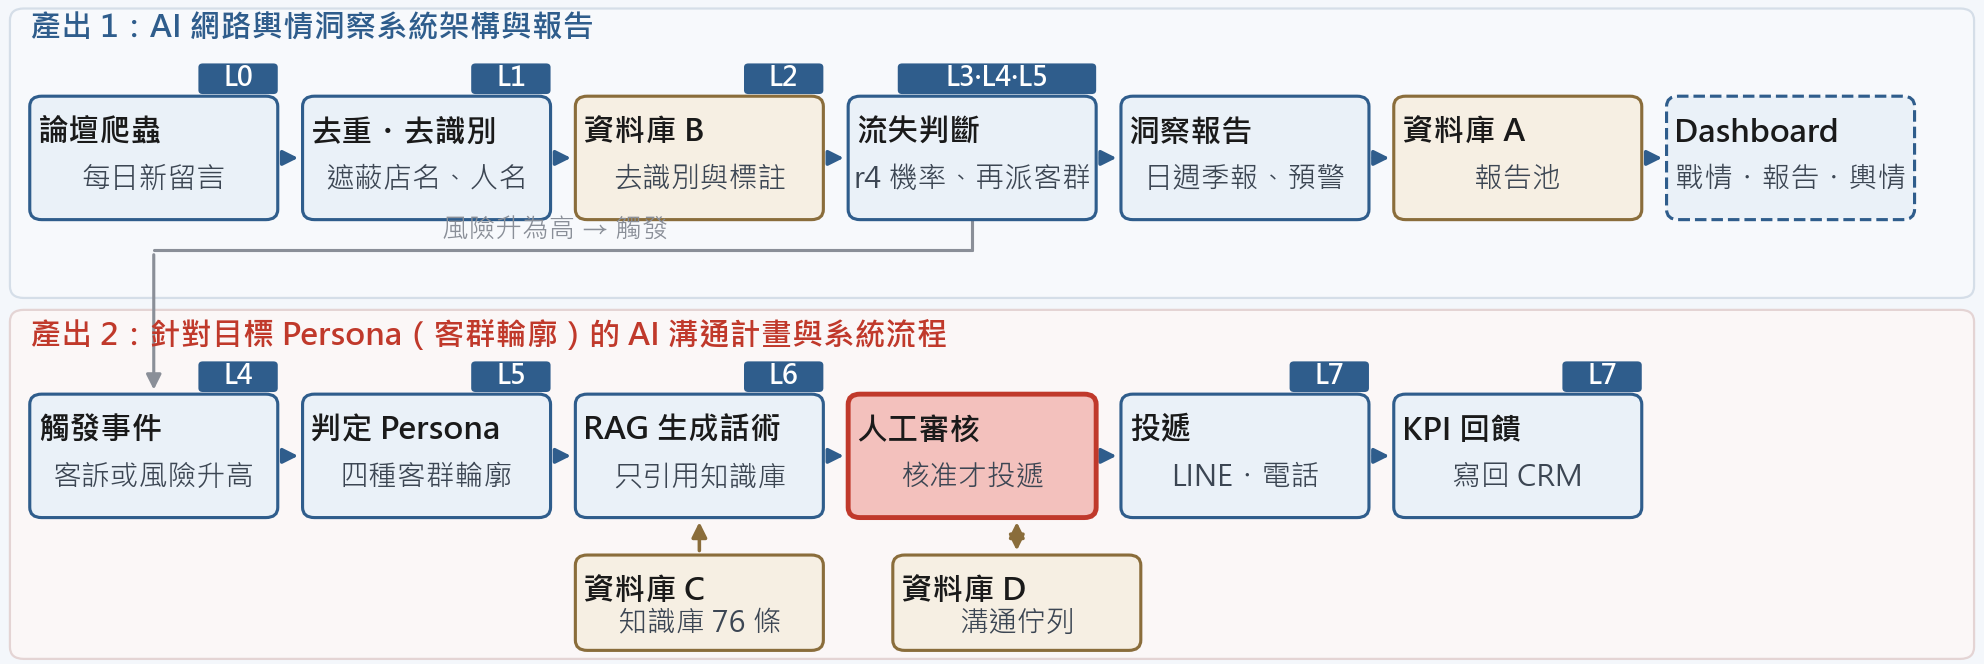
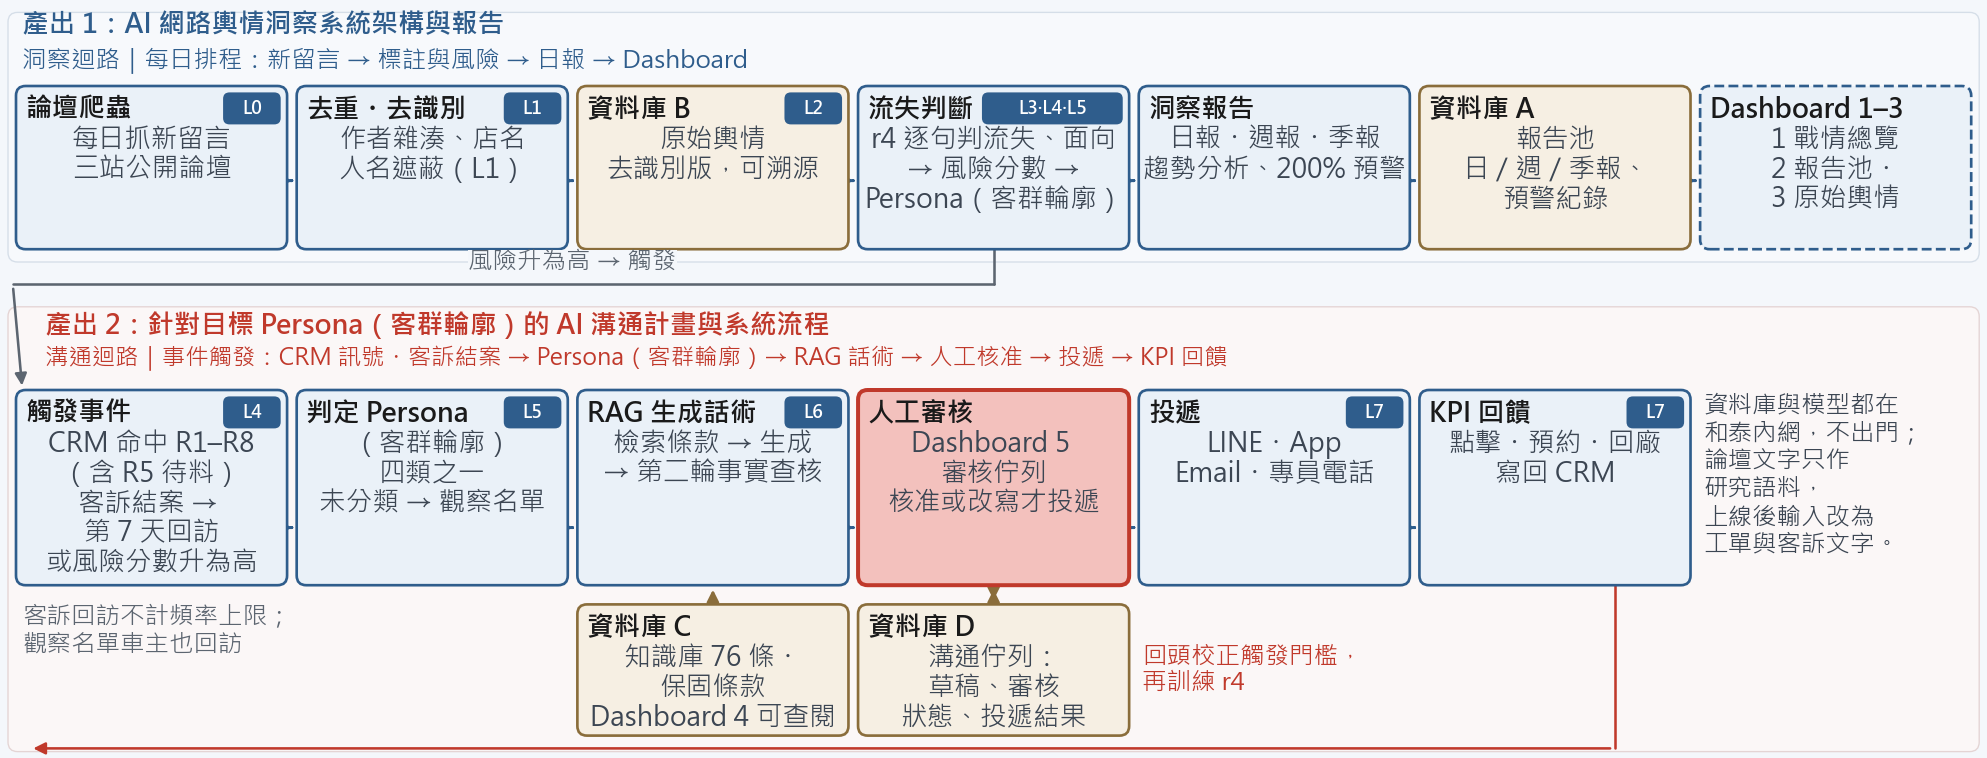
還原 F8 的 v2.6 全文，並把層級標留在方塊內不壓字。

Changed region(s): [[0.0, 0.0, 1.0, 0.994], [0.9688, 0.4217, 1.0, 0.4819]]

diff --git a/pipeline/make_flow_figure.py b/pipeline/make_flow_figure.py
@@ -1,7 +1,8 @@
 """F8：AI 方案運作流程圖（兩個迴路、四個資料庫、五個 Dashboard），給簡報 P6 與 L7 文件用。
 
-  python pipeline/make_flow_figure.py   → reports/figures/F8.png（1920×900）
-不讀任何資料；內容依 L7運作流程_2026-09-30.md。
+  python pipeline/make_flow_figure.py   → reports/figures/F8.png
+不讀任何資料。方塊文字對齊 v2.6（f5f2a1b）；L0–L7 與兩個產出標示是後來加上的。
+畫布配合簡報第 9 頁圖區高度，用斷行容納全文，不靠刪字。
 """
 from pathlib import Path
 
@@ -21,42 +22,98 @@ PROC = "#EAF1F8"
 DB_FILL, DB_EDGE = "#F6EFE3", "#8A6D3B"
 HUMAN_FILL, HUMAN_EDGE = "#F3C1BD", "#C0392B"
 BAND_TOP, BAND_BOT = "#F7F9FC", "#FBF7F7"
-GREY = "#8A8F98"
+GREY = "#5C6570"
+
+# 寬度對齊簡報內容區。高度對齊第 9 頁圖區，12pt 投影才不會被縮小。
+FIG_W, FIG_H = 12.42, 4.74
+
+# v2.6 圖上必須還在的句子。產出標題與 L# 是額外標示，不取代這些句子。
+REQUIRED = [
+    "每日排程：新留言 → 標註與風險 → 日報 → Dashboard",
+    "事件觸發：CRM 訊號・客訴結案 → Persona（客群輪廓）→ RAG 話術 → 人工核准 → 投遞 → KPI 回饋",
+    "每日抓新留言",
+    "三站公開論壇",
+    "作者雜湊、店名",
+    "人名遮蔽（L1）",
+    "原始輿情",
+    "去識別版，可溯源",
+    "r4 逐句判流失、面向",
+    "風險分數",
+    "Persona（客群輪廓）",
+    "日報・週報・季報",
+    "趨勢分析、200% 預警",
+    "日／週／季報、預警紀錄",
+    "1 戰情總覽",
+    "2 報告池・3 原始輿情",
+    "CRM 命中 R1–R8（含 R5 待料）",
+    "客訴結案 → 第 7 天回訪",
+    "或風險分數升為高",
+    "四類之一",
+    "未分類 → 觀察名單",
+    "檢索條款 → 生成",
+    "第二輪事實查核",
+    "Dashboard 5 審核佇列",
+    "核准或改寫才投遞",
+    "LINE・App",
+    "Email・專員電話",
+    "點擊・預約・回廠",
+    "寫回 CRM",
+    "客訴回訪不計頻率上限",
+    "觀察名單車主也回訪",
+    "知識庫 76 條・保固條款",
+    "Dashboard 4 可查閱",
+    "溝通佇列：草稿、審核",
+    "狀態、投遞結果",
+    "風險升為高 → 觸發",
+    "回頭校正觸發門檻",
+    "再訓練 r4",
+    "資料庫與模型都在",
+    "和泰內網，不出門",
+    "論壇文字只作研究語料",
+    "上線後輸入改為",
+    "工單與客訴文字",
+]
+
+DRAWN = []
+OWNED = []  # (artist, x0, y0, x1, y1) 方塊內文字必須落在方塊內
+FREE = []  # 不在方塊裡、也不得壓到方塊的文字
 
 
 def layer_tag(ax, x, y, w, h, label):
-    """標籤坐在方塊右上角外緣，標題左對齊，避免壓字。"""
-    n = len(label)
-    tw = 8.0 if n <= 2 else (12.2 if n <= 4 else 20.0)
-    th = 3.6
-    bx = x + w - tw
-    by = y + h + 0.25
-    ax.add_patch(FancyBboxPatch((bx, by), tw, th, boxstyle="round,pad=0,rounding_size=0.45",
-                                fc=BLUE, ec=BLUE, lw=0, zorder=5))
-    ax.text(bx + tw / 2, by + th / 2, label, ha="center", va="center", fontsize=12,
-            color="white", fontweight="bold", zorder=6)
+    """標籤貼在方塊右上角內緣，標題留在左側。"""
+    tw = 0.36 if len(label) <= 2 else (0.58 if len(label) <= 4 else 0.88)
+    th = 0.20
+    bx = x + w - tw - 0.04
+    by = y + h - th - 0.04
+    ax.add_patch(FancyBboxPatch((bx, by), tw, th, boxstyle="round,pad=0,rounding_size=0.04",
+                                fc=BLUE, ec=BLUE, lw=0, zorder=6))
+    artist = ax.text(bx + tw / 2, by + th / 2, label, ha="center", va="center", fontsize=8,
+                     color="white", fontweight="bold", zorder=7)
+    OWNED.append((artist, bx, by, bx + tw, by + th))
 
 
-def box(ax, x, y, w, h, text, fill=PROC, edge=BLUE, size=13, bold_first=True, lw=1.4, ls="-", bold_lines=1, tag=None):
-    ax.add_patch(FancyBboxPatch((x, y), w, h, boxstyle="round,pad=0,rounding_size=1.2",
+def box(ax, x, y, w, h, text, fill=PROC, edge=BLUE, size=12, lw=1.2, ls="-", tag=None):
+    ax.add_patch(FancyBboxPatch((x, y), w, h, boxstyle="round,pad=0,rounding_size=0.06",
                                 fc=fill, ec=edge, lw=lw, ls=ls, zorder=3))
+    DRAWN.append(text)
     lines = text.split("\n")
-    if bold_first:
-        title = "\n".join(lines[:bold_lines])
-        rest = "\n".join(lines[bold_lines:])
-        ax.text(x + 0.8, y + h - 4.4, title, ha="left", va="center", fontsize=size + 1, fontweight="bold",
-                color=INK, zorder=4, linespacing=1.05)
-        if rest:
-            ax.text(x + w / 2, y + (h - 5.2) / 2, rest, ha="center", va="center", fontsize=size,
-                    color="#3C4653", zorder=4, linespacing=1.25)
-    else:
-        ax.text(x + w / 2, y + h / 2, text, ha="center", va="center", fontsize=size, color=INK, zorder=4,
-                linespacing=1.25)
+    # 有標籤時標題讓出右上角，但仍從方塊頂緣起排，不為標籤多空一列。
+    top = y + h - 0.06
+    step = (size / 72) * 1.12
+    for i, line in enumerate(lines):
+        yy = top - i * step
+        if i == 0:
+            artist = ax.text(x + 0.06, yy, line, ha="left", va="top", fontsize=size, fontweight="bold",
+                             color=INK, zorder=4)
+        else:
+            artist = ax.text(x + w / 2, yy, line, ha="center", va="top", fontsize=size,
+                             color="#3C4653", zorder=4)
+        OWNED.append((artist, x + 0.04, y + 0.03, x + w - 0.04, y + h - 0.02))
     if tag:
         layer_tag(ax, x, y, w, h, tag)
 
 
-def arrow(ax, p, q, color=BLUE, lw=1.6, style="-|>", ms=14, path=None, zorder=2):
+def arrow(ax, p, q, color=BLUE, lw=1.3, style="-|>", ms=11, path=None, zorder=2):
     if path is None:
         ax.add_patch(FancyArrowPatch(p, q, arrowstyle=style, mutation_scale=ms, color=color, lw=lw, zorder=zorder))
         return
@@ -66,68 +123,144 @@ def arrow(ax, p, q, color=BLUE, lw=1.6, style="-|>", ms=14, path=None, zorder=2)
     ax.add_patch(FancyArrowPatch(pts[-2], pts[-1], arrowstyle=style, mutation_scale=ms, color=color, lw=lw, zorder=zorder))
 
 
+def note(ax, x, y, s, size=12, color=GREY, ha="left", va="top", **kw):
+    DRAWN.append(s)
+    artist = ax.text(x, y, s, fontsize=size, color=color, ha=ha, va=va, zorder=4, **kw)
+    FREE.append(artist)
+    return artist
+
+
+def data_bbox(artist, renderer, ax):
+    bb = artist.get_window_extent(renderer)
+    inv = ax.transData.inverted()
+    (x0, y0), (x1, y1) = inv.transform((bb.x0, bb.y0)), inv.transform((bb.x1, bb.y1))
+    return min(x0, x1), min(y0, y1), max(x0, x1), max(y0, y1)
+
+
+def overlaps(a, b, pad=0.0):
+    return a[0] < b[2] - pad and a[2] > b[0] + pad and a[1] < b[3] - pad and a[3] > b[1] + pad
+
+
 def main():
-    fig, ax = plt.subplots(figsize=(12.4, 4.15), dpi=160)
+    fig, ax = plt.subplots(figsize=(FIG_W, FIG_H), dpi=160)
     ax.set_position([0, 0, 1, 1])
-    ax.set_xlim(0, 200)
-    ax.set_ylim(0, 78)
+    ax.set_xlim(0, FIG_W)
+    ax.set_ylim(0, FIG_H)
     ax.axis("off")
     fig.patch.set_facecolor("#F4F7FB")
 
-    ax.add_patch(FancyBboxPatch((1, 43), 198, 34, boxstyle="round,pad=0,rounding_size=1.4", fc=BAND_TOP, ec="#D5DEE8", lw=1, zorder=1))
-    ax.add_patch(FancyBboxPatch((1, 0.6), 198, 41, boxstyle="round,pad=0,rounding_size=1.4", fc=BAND_BOT, ec="#E4D4D4", lw=1, zorder=1))
-    ax.text(3, 74.6, "產出 1：AI 網路輿情洞察系統架構與報告", fontsize=14, fontweight="bold", color=BLUE, va="center")
-    ax.text(3, 38.4, "產出 2：針對目標 Persona（客群輪廓）的 AI 溝通計畫與系統流程", fontsize=14, fontweight="bold", color=HUMAN_EDGE, va="center")
+    # 上帶包住產出 1 與七個方塊；下帶包住產出 2 與溝通迴路。兩帶之間留空給回流標籤。
+    ax.add_patch(FancyBboxPatch((0.05, 3.10), 12.32, 1.56, boxstyle="round,pad=0,rounding_size=0.06",
+                                fc=BAND_TOP, ec="#D5DEE8", lw=0.6, zorder=1))
+    ax.add_patch(FancyBboxPatch((0.05, 0.04), 12.32, 2.78, boxstyle="round,pad=0,rounding_size=0.06",
+                                fc=BAND_BOT, ec="#E4D4D4", lw=0.6, zorder=1))
 
-    w, h, yt = 25, 14.5, 52.2
-    xs = [3, 30.5, 58, 85.5, 113, 140.5, 168]
-    # L2 沒有獨立的每日步驟方塊。L7 文件 §3：資料庫 B 存放去識別留言與標註結果。
+    note(ax, 0.14, 4.58, "產出 1：AI 網路輿情洞察系統架構與報告",
+         size=12, color=BLUE, va="center", fontweight="bold")
+    note(ax, 0.14, 4.36, "洞察迴路｜每日排程：新留言 → 標註與風險 → 日報 → Dashboard",
+         size=11, color=BLUE, va="center")
+
+    gap = 0.06
+    w = (12.22 - 6 * gap) / 7
+    xs = [0.10 + i * (w + gap) for i in range(7)]
+    yt, ht = 3.18, 1.02
     top = [
-        ("論壇爬蟲", "每日新留言", PROC, BLUE, "L0"),
-        ("去重・去識別", "遮蔽店名、人名", PROC, BLUE, "L1"),
-        ("資料庫 B", "去識別與標註", DB_FILL, DB_EDGE, "L2"),
-        ("流失判斷", "r4 機率、再派客群", PROC, BLUE, "L3·L4·L5"),
-        ("洞察報告", "日週季報、預警", PROC, BLUE, None),
-        ("資料庫 A", "報告池", DB_FILL, DB_EDGE, None),
-        ("Dashboard", "戰情・報告・輿情", PROC, BLUE, None),
+        ("論壇爬蟲", "每日抓新留言\n三站公開論壇", PROC, BLUE, "L0"),
+        ("去重・去識別", "作者雜湊、店名\n人名遮蔽（L1）", PROC, BLUE, "L1"),
+        ("資料庫 B", "原始輿情\n去識別版，可溯源", DB_FILL, DB_EDGE, "L2"),
+        ("流失判斷", "r4 逐句判流失、面向\n→ 風險分數 →\nPersona（客群輪廓）", PROC, BLUE, "L3·L4·L5"),
+        ("洞察報告", "日報・週報・季報\n趨勢分析、200% 預警", PROC, BLUE, None),
+        ("資料庫 A", "報告池\n日／週／季報、\n預警紀錄", DB_FILL, DB_EDGE, None),
+        ("Dashboard 1–3", "1 戰情總覽\n2 報告池・\n3 原始輿情", PROC, BLUE, None),
     ]
     for x, (head, body, f, e, tg) in zip(xs, top):
-        box(ax, x, yt, w, h, head + "\n" + body, fill=f, edge=e, ls="--" if head.startswith("Dashboard") else "-", tag=tg)
+        box(ax, x, yt, w, ht, head + "\n" + body, fill=f, edge=e,
+            ls="--" if head.startswith("Dashboard") else "-", tag=tg, size=12)
     for a, b in zip(xs[:-1], xs[1:]):
-        arrow(ax, (a + w, yt + h / 2), (b, yt + h / 2))
+        arrow(ax, (a + w, yt + ht * 0.42), (b, yt + ht * 0.42))
 
-    # 下帶：6 個方塊 + 2 個資料庫
-    yb = 17.2
-    # 觸發對 L4、Persona 對 L5、RAG 對 L6、投遞與 KPI 對 L7（L7運作流程_2026-09-30.md）。人工審核沒有層號。
+    note(ax, 0.28, 2.70, "產出 2：針對目標 Persona（客群輪廓）的 AI 溝通計畫與系統流程",
+         size=12, color=HUMAN_EDGE, va="center", fontweight="bold")
+    note(ax, 0.28, 2.50, "溝通迴路｜事件觸發：CRM 訊號・客訴結案 → Persona（客群輪廓）→ RAG 話術 → 人工核准 → 投遞 → KPI 回饋",
+         size=10.5, color=HUMAN_EDGE, va="center")
+
+    yb, hb = 1.08, 1.22
     bot = [
-        ("觸發事件", "客訴或風險升高", PROC, BLUE, "L4"),
-        ("判定 Persona", "四種客群輪廓", PROC, BLUE, "L5"),
-        ("RAG 生成話術", "只引用知識庫", PROC, BLUE, "L6"),
-        ("人工審核", "核准才投遞", HUMAN_FILL, HUMAN_EDGE, None),
-        ("投遞", "LINE・電話", PROC, BLUE, "L7"),
-        ("KPI 回饋", "寫回 CRM", PROC, BLUE, "L7"),
+        ("觸發事件", "CRM 命中 R1–R8\n（含 R5 待料）\n客訴結案 → \n第 7 天回訪\n或風險分數升為高", PROC, BLUE, "L4"),
+        ("判定 Persona", "（客群輪廓）\n四類之一\n未分類 → 觀察名單", PROC, BLUE, "L5"),
+        ("RAG 生成話術", "檢索條款 → 生成\n→ 第二輪事實查核", PROC, BLUE, "L6"),
+        ("人工審核", "Dashboard 5 \n審核佇列\n核准或改寫才投遞", HUMAN_FILL, HUMAN_EDGE, None),
+        ("投遞", "LINE・App\nEmail・專員電話", PROC, BLUE, "L7"),
+        ("KPI 回饋", "點擊・預約・回廠\n寫回 CRM", PROC, BLUE, "L7"),
     ]
     for x, (head, body, f, e, tg) in zip(xs[:6], bot):
-        box(ax, x, yb, w, h, head + "\n" + body, fill=f, edge=e, lw=2.2 if head == "人工審核" else 1.4, tag=tg)
+        box(ax, x, yb, w, hb, head + "\n" + body, fill=f, edge=e,
+            lw=1.8 if head == "人工審核" else 1.2, tag=tg, size=12)
     for a, b in zip(xs[:5], xs[1:6]):
-        arrow(ax, (a + w, yb + h / 2), (b, yb + h / 2))
-    # 回饋箭在 x=13.5 垂直上升，小字放箭頭右側、觸發方塊正下方。12pt 單行會伸進第二格下方，改兩行。
-    box(ax, 58, 1.6, 25, 11.2, "資料庫 C\n知識庫 76 條", fill=DB_FILL, edge=DB_EDGE, size=13)
-    arrow(ax, (70.5, 12.8), (70.5, yb), color=DB_EDGE)
-    box(ax, 90, 1.6, 25, 11.2, "資料庫 D\n溝通佇列", fill=DB_FILL, edge=DB_EDGE, size=13)
-    arrow(ax, (102.5, yb), (102.5, 12.8), color=DB_EDGE, style="<|-|>")
+        arrow(ax, (a + w, yb + 0.36), (b, yb + 0.36))
 
-    arrow(ax, (98, yt), (15.5, yb + h), path=[(98, 48.6), (15.5, 48.6)], color=GREY, lw=1.4)
-    ax.text(56, 49.2, "風險升為高 → 觸發", fontsize=12, color=GREY, ha="center", va="bottom")
+    note(ax, xs[0] + 0.04, 0.96, "客訴回訪不計頻率上限；\n觀察名單車主也回訪", size=11, color=GREY, va="top", linespacing=1.15)
 
+    box(ax, xs[2], 0.14, w, 0.82, "資料庫 C\n知識庫 76 條・\n保固條款\nDashboard 4 可查閱",
+        fill=DB_FILL, edge=DB_EDGE, size=12)
+    arrow(ax, (xs[2] + w / 2, 0.96), (xs[2] + w / 2, yb), color=DB_EDGE)
+    box(ax, xs[3], 0.14, w, 0.82, "資料庫 D\n溝通佇列：\n草稿、審核\n狀態、投遞結果",
+        fill=DB_FILL, edge=DB_EDGE, size=12)
+    arrow(ax, (xs[3] + w / 2, yb), (xs[3] + w / 2, 0.96), color=DB_EDGE, style="<|-|>")
+
+    # 橫線在兩帶空檔。直向箭頭貼左緣下來，不穿過產出 2 與溝通迴路標題。
+    arrow(ax, (xs[3] + w / 2, yt), (xs[0] + 0.04, yb + hb),
+          path=[(xs[3] + w / 2, 2.96), (0.08, 2.96)], color=GREY, lw=1.15)
+    risk = note(ax, (xs[1] + xs[2] + w) / 2, 3.02, "風險升為高 → 觸發",
+                size=11, color=GREY, ha="center", va="bottom",
+                bbox=dict(fc="#F4F7FB", ec="none", pad=0.15))
+
+    arrow(ax, (xs[5] + w * 0.72, yb), (xs[0] + 0.08, 0.06),
+          path=[(xs[5] + w * 0.72, 0.06)], color=HUMAN_EDGE, lw=1.15)
+    note(ax, xs[4] + 0.02, 0.55, "回頭校正觸發門檻，\n再訓練 r4",
+         size=11, color=HUMAN_EDGE, ha="left", va="center", linespacing=1.1)
+
+    note(ax, xs[6] + 0.02, 2.28, "資料庫與模型都在\n和泰內網，不出門；\n論壇文字只作\n研究語料，\n上線後輸入改為\n工單與客訴文字。",
+         size=11, color="#3C4653", va="top", linespacing=1.15)
+
+    fig.canvas.draw()
+    renderer = fig.canvas.get_renderer()
+    problems = []
+    patches = [p for p in ax.patches if isinstance(p, FancyBboxPatch)]
+    patch_boxes = []
+    for p in patches:
+        bb = data_bbox(p, renderer, ax)
+        # 色帶很大，只拿方塊（寬度小於 3 吋）做壓線檢查。
+        if bb[2] - bb[0] < 3:
+            patch_boxes.append(bb)
+    for artist, x0, y0, x1, y1 in OWNED:
+        bb = data_bbox(artist, renderer, ax)
+        if bb[0] < x0 - 0.02 or bb[2] > x1 + 0.02 or bb[1] < y0 - 0.02 or bb[3] > y1 + 0.02:
+            problems.append(f"出框 {artist.get_text()!r} {tuple(round(v, 2) for v in bb)}")
+    for artist in FREE:
+        bb = data_bbox(artist, renderer, ax)
+        if bb[0] < -0.02 or bb[2] > FIG_W + 0.02 or bb[1] < -0.02 or bb[3] > FIG_H + 0.02:
+            problems.append(f"出圖 {artist.get_text()!r} {tuple(round(v, 2) for v in bb)}")
+        if artist is risk:
+            for pb in patch_boxes:
+                if overlaps(bb, pb, pad=0.01):
+                    problems.append(f"風險標籤壓到方塊 {tuple(round(v, 2) for v in pb)}")
+    blob = "".join(DRAWN).replace("\n", "")
+    missing = [s for s in REQUIRED if s not in blob]
+    if missing:
+        problems.append("缺字：" + "、".join(missing))
+    if problems:
+        plt.close(fig)
+        raise SystemExit("F8 檢查失敗：\n" + "\n".join(problems))
 
     FIG.mkdir(parents=True, exist_ok=True)
     out = FIG / "F8.png"
     fig.savefig(out, dpi=160, facecolor="#F4F7FB")
     plt.close(fig)
     from PIL import Image
-    wpx, hpx = Image.open(out).size
-    print(f"F8.png {wpx}×{hpx}")
+    im = Image.open(out)
+    print(f"F8.png {im.size[0]}×{im.size[1]}")
+    print(f"v2.6 文字清單 {len(REQUIRED)} 條都在繪圖字串裡，方塊內文字未出框")
 
 
 if __name__ == "__main__":
